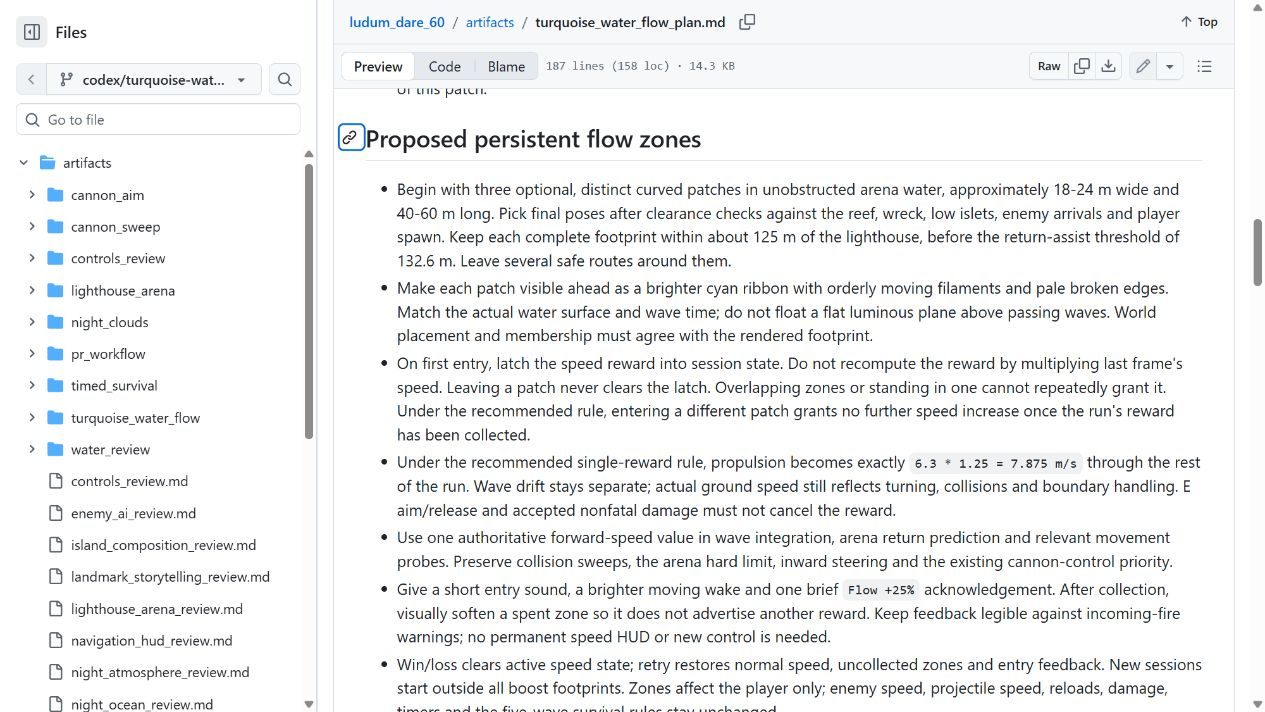
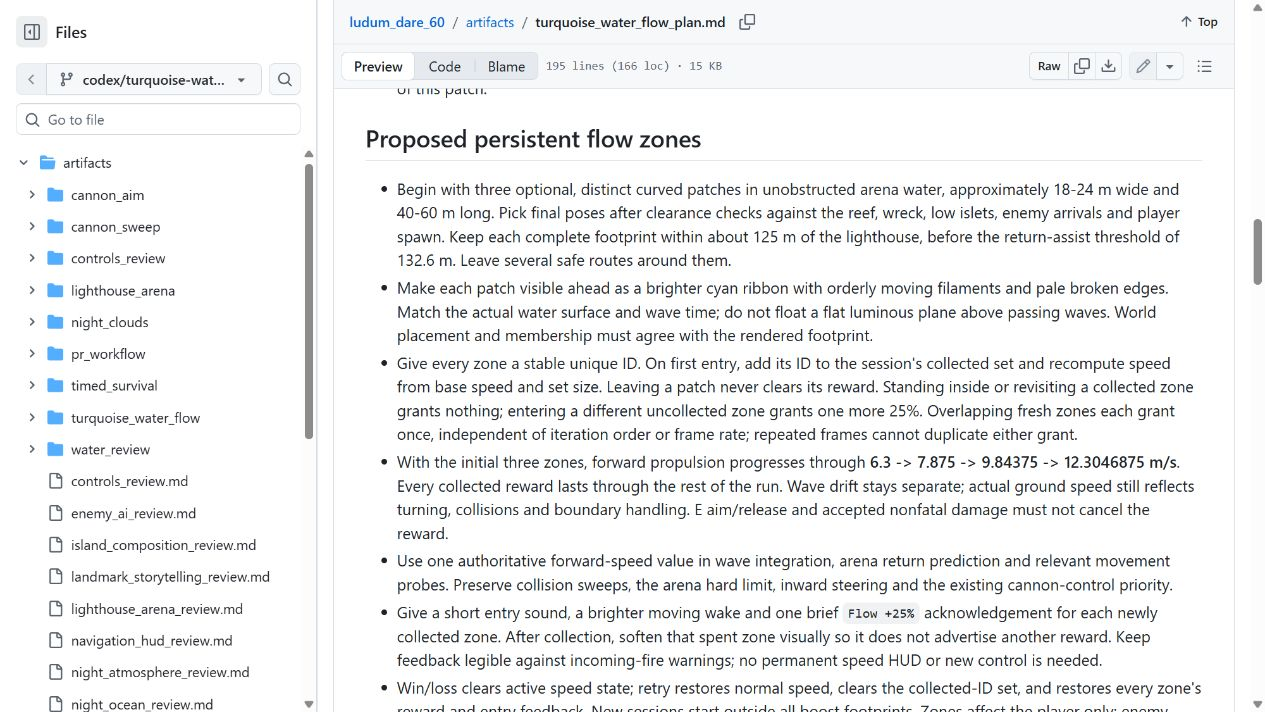
Finalize flow stacking proposal and rendered evidence

diff --git a/artifacts/turquoise_water_flow_plan.md b/artifacts/turquoise_water_flow_plan.md
@@ -101,8 +101,8 @@ the preset, arena branch and production code above take precedence.
   hard limit, inward steering and the existing cannon-control priority.
 - Give a short entry sound, a brighter moving wake and one brief `Flow +25%`
   acknowledgement for each newly collected zone. After collection, soften that
-  spent zone visually so it does
-  not advertise another reward. Keep feedback legible against incoming-fire
+  spent zone visually so it does not advertise another reward. Keep feedback
+  legible against incoming-fire
   warnings; no permanent speed HUD or new control is needed.
 - Win/loss clears active speed state; retry restores normal speed, clears the
   collected-ID set, and restores every zone's reward and entry feedback.

diff --git a/changelog.md b/changelog.md
@@ -12,7 +12,8 @@ recorded evidence and limitations.
   speed by 25% once per run; revisiting cannot repeat its reward, and retry
   resets all collected zones. Added acceptance checks through all three boosts.
   Inspected native baseline helm/layout captures and the GitHub-rendered
-  proposal; screenshots included for web review. Documentation whitespace
+  proposal; refreshed its flow screenshot for the confirmed stacking rule.
+  Screenshots included for web review. Documentation whitespace
   check passes. Gameplay unchanged; implementation checks remain pending.
   See the [water and flow proposal](artifacts/turquoise_water_flow_plan.md).
 
